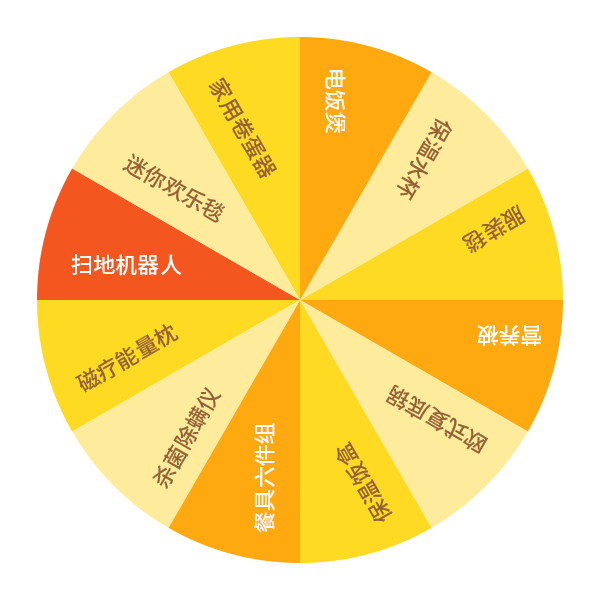
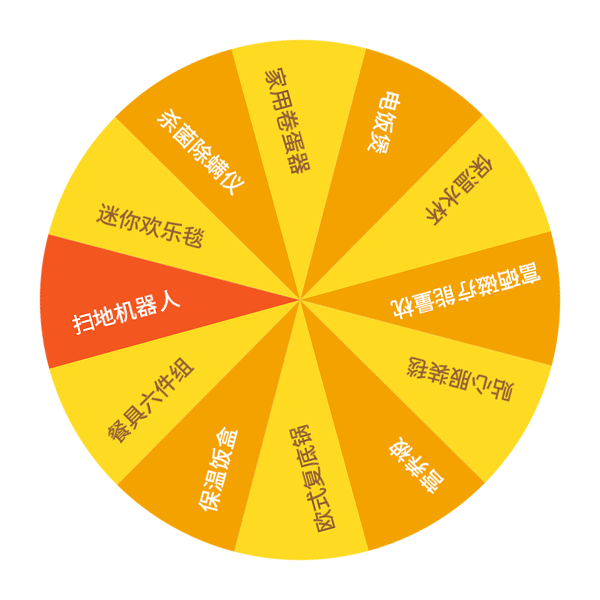
Code clean up for prize.css, prize.js

diff --git a/src/main/resources/static/js/prize.js b/src/main/resources/static/js/prize.js
@@ -1,13 +1,4 @@
 $(function () {
-    $.ajax({
-        url: 'http://localhost:8080/result/1',
-        method: 'get',
-        success: function (res) {
-            console.log(res)
-            // $('.marquee').html()
-        }
-    });
-
     var rotateTimeOut = function () {
         $('#rotate').rotate({
             angle: 0,
@@ -20,7 +11,7 @@ $(function () {
     };
     var bRotate = false;
     // 转动
-    var rotateFn = function (awards, angles, imgSrc) {
+    var rotateFn = function (awards, angles) {
         bRotate = !bRotate;
         $('#rotate').stopRotate();
         $('#rotate').rotate({
@@ -28,12 +19,9 @@ $(function () {
             animateTo: angles + 1800,
             duration: 6000,
             callback: function () {
-                // console.log(arrPrize[0]);
                 bRotate = !bRotate;
                 $('#mark').fadeIn();
                 $('#mark').css("z-index", 4);
-                $('#mark .red-img').attr("src", imgSrc);
-                //alert(txt);
                 $('#mark').click(function () {
                     $(this).fadeOut();
                 })
@@ -42,52 +30,8 @@ $(function () {
     };
     $('.submit').click(function () {
         if (bRotate) return;//如果正在转动，点击时将不再重复执行
-        // ajax({
-        // 		url: 'post.php',
-        // 		type: 'POST',
-        // 		data: {'intro': 'post请求'},
-        // 		success:function(res){
-        // 			res = JSON.parse(res);
-        // 			document.getElementById('b').innerHTML = res.intro;
-        // 			console.log(res);
-        // 		},
-        //         error: function(error) {}
-        // 	});
-        var item = rnd(0, 7);
-        var arrPrize = ["img/prize5.png", "img/prize10.png", "img/prize20.png", "img/prize50.png", "img/prize100.png", "img/prize200.png", "img/prize500.png", "img/prize1000.png"];
-        switch (item) {
-            case 0:
-                rotateFn(0, 225, arrPrize[item]);
-                break;
-            case 1:
-                rotateFn(1, 135, arrPrize[item]);
-                break;
-            case 2:
-                rotateFn(2, 315, arrPrize[item]);
-                break;
-            case 3:
-                rotateFn(3, 45, arrPrize[item]);
-                break;
-            case 4:
-                rotateFn(4, 90, arrPrize[item]);
-                break;
-            case 5:
-                rotateFn(5, 270, arrPrize[item]);
-                break;
-            case 6:
-                rotateFn(6, 180, arrPrize[item]);
-                break;
-            case 7:
-                rotateFn(7, 360, arrPrize[item]);
-                break;
-        }
-    });
-    $("#marquee").marquee({
-        duration: 10000,
-        gap: 50,
-        delayBeforeStart: 0,
-        direction: 'left',
-        duplicated: true
+        var item = $('.prize-id').html() * 1;
+        rotateFn(item - 1, 360 - item * 30);
     });
 });
 

diff --git a/src/main/resources/static/css/prize.css b/src/main/resources/static/css/prize.css
@@ -14,24 +14,6 @@ body {
     box-sizing: border-box;
 }
 
-height:
-
-362.319
-px
-
-;
-    margin: 0 auto;
-padding:
-
-16.3045
-px
-
-9.058
-px
-
-;
-    position: relative;
-
 .turntable-prize {
     box-sizing: border-box;
 }
@@ -127,7 +109,6 @@ px
     height: 48.913000000000004px;
     overflow: hidden;
     padding-left: 54.348px;
-    background: url(/Application/Public/img/zhuanpan/ruler-prize.png) no-repeat;
     background-size: 48.913000000000004px;
     /*display: inline-block;*/
 }
@@ -149,6 +130,7 @@ px
     font-size: 10.8695px;
     margin-top: 9.058px;
 }
+
 /*prize over*/
 /*login begin*/
 .logo-login {
@@ -175,31 +157,6 @@ px
     width: 100%;
 }
 
-.form-login, form {
-    /*width: 340.5795px;*/
-    width: 92%;
-    /*height: 178.44199999999998px;*/
-    margin: 5.4350000000000005px auto;
-    box-sizing: border-box;
-    overflow: hidden;
-    padding: 0;
-}
-
-.form-login input {
-    width: 100%;
-    height: 45.29px;
-    color: #333;
-    height: 38.9495px;
-    font-size: 16.3045px;
-    display: block;
-    border: none;
-    outline: none;
-    background: #fff;
-    margin: 0;
-    padding: 0;
-    /*border-radius: 4.529px;*/
-}
-
 ::-webkit-input-placeholder {
     color: #e9e9e9;
 }
@@ -210,30 +167,6 @@ px
 
 :-moz-placeholder {
     color: #e9e9e9;
-}
-
-.form-login .user {
-    height: 45.29px;
-    color: #333;
-    padding-left: 41.6665px;
-    margin-bottom: 18.116px;
-    -webkit-appearance: none;
-    background: #fff url(/Application/Public/img/zhuanpan/login-icon.png) no-repeat 9.058px 10.458px;
-    background-size: 16.587px;
-}
-
-.form-login .img-code {
-    width: 100%;
-    height: 45.29px;
-    color: #333;
-    text-align: center;
-    margin-bottom: 18.116px;
-    overflow: hidden;
-    position: relative;
-    box-sizing: border-box;
-    background: #fff url(/Application/Public/img/zhuanpan/login-icon.png) no-repeat 9.058px -35.642px;
-    background-size: 16.587px;
-    padding-left: 41.6665px;
 }
 
 .img-letter {
@@ -250,6 +183,7 @@ px
     display: block;
     float: left;
 }
+
 /*.form-login .img-code>input{
     width: 192.935px;
 }*/
@@ -278,14 +212,6 @@ px
     top: 0;
     right: 0;
     z-index: 6;
-}
-
-.form-login .identify {
-    height: 45.29px;
-    position: relative;
-    background: #fff url(/Application/Public/img/zhuanpan/login-icon.png) no-repeat 9.058px -35.642px;
-    background-size: 16.587px;
-    padding-left: 41.6665px;
 }
 
 .form-login .identify > input {
@@ -336,6 +262,7 @@ px
     font-size: 10.8695px;
     margin-top: 9.058px;
 }
+
 /*login over*/
 /*personal begin*/
 header {
@@ -427,4 +354,5 @@ header {
     text-align: left;
 
 }
+
 /*personal over*/
